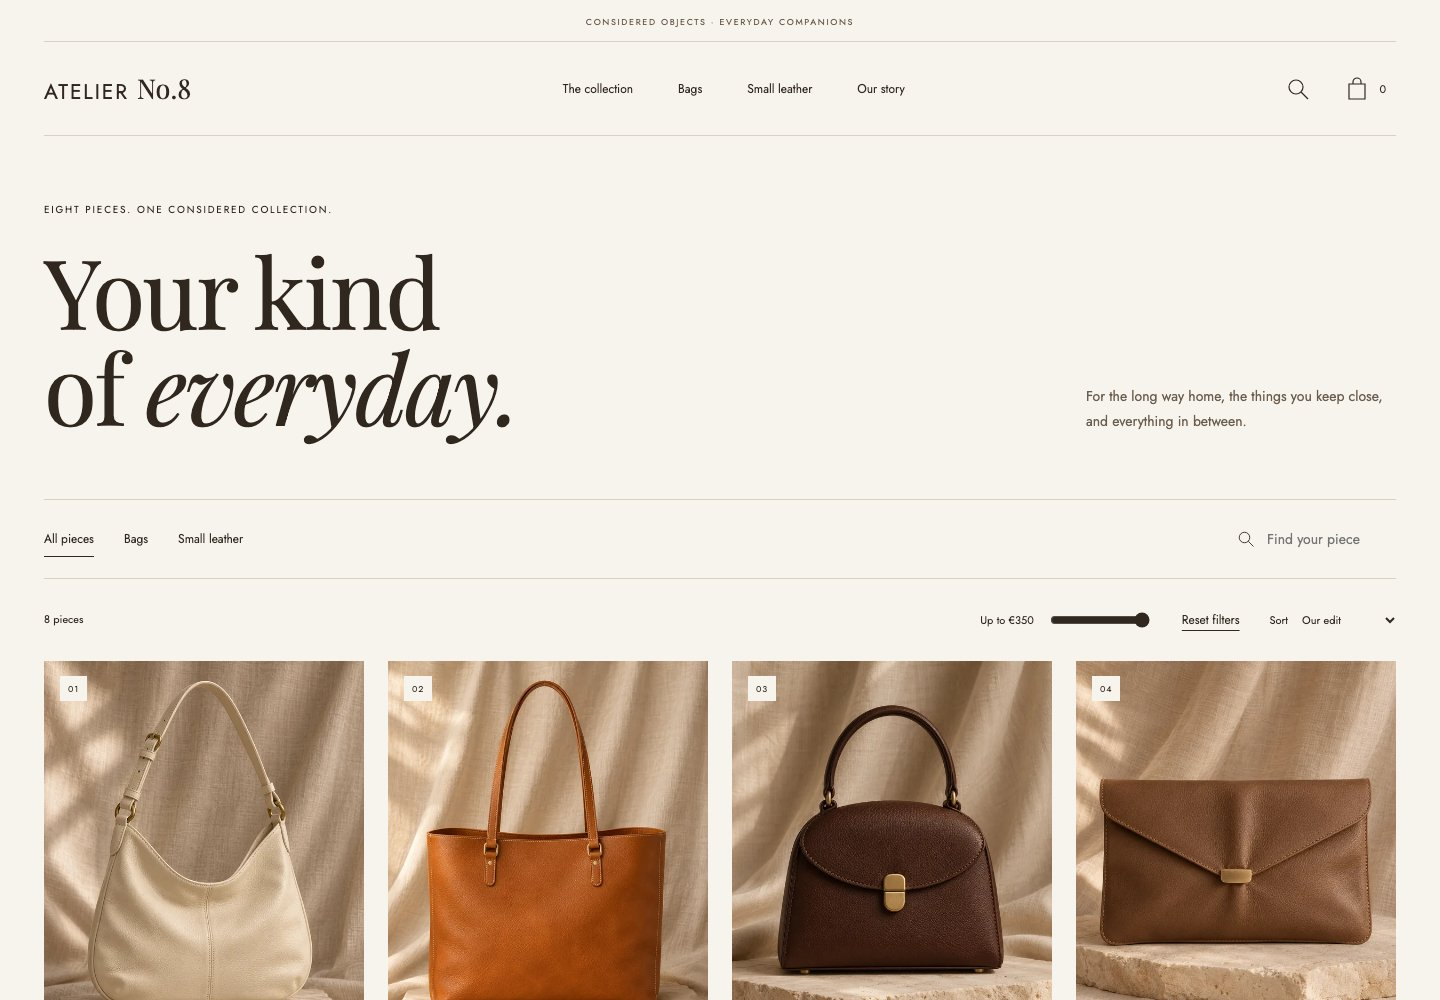
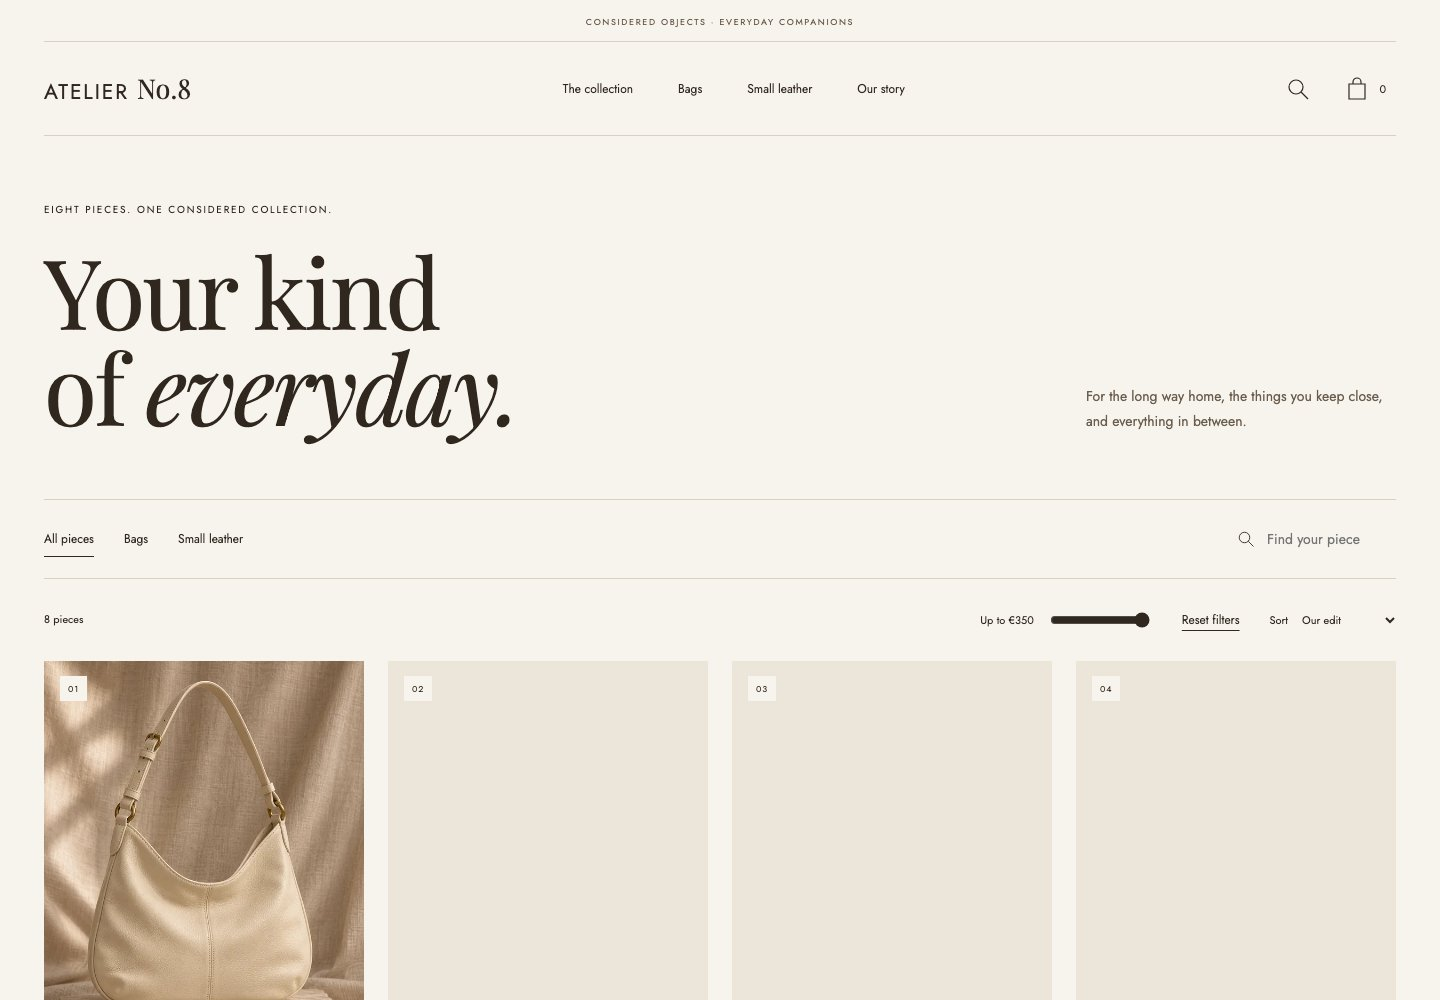
Keep valid contact details inside narrow checkout layouts
A90-character name and long email expanded the390px review to752px and confirmation to769px. Let user-entered values wrap within their cells, and compare overflow against the fixed layout viewport so mobile scaling cannot hide the regression.

Confidence: high
Scope-risk: narrow
Tested: Failing mobile regression before fix; ESLint; formatting; Nuxt typecheck; 12 unit/store tests; 21 browser cases; review and confirmation390px widths; capture/hydration checks

Changed region(s): [[0.25, 0.651, 0.9688, 1.0]]

diff --git a/e2e/shop.spec.ts b/e2e/shop.spec.ts
@@ -129,6 +129,13 @@ test('checkout validates contact and completes an immutable local confirmation w
   await page
     .getByRole('button', { name: 'Use sample details', exact: true })
     .click();
+  await expect(page.getByLabel('Your name', { exact: true })).toHaveValue(
+    'Alex Morgan',
+  );
+  const longName = 'A'.repeat(90);
+  const longEmail = 'a'.repeat(60) + '@example.com';
+  await page.getByLabel('Your name', { exact: true }).fill(longName);
+  await page.getByLabel('Email address', { exact: true }).fill(longEmail);
   await page
     .getByRole('checkbox', { name: /I understand this is a simulated order/ })
     .check();
@@ -138,6 +145,13 @@ test('checkout validates contact and completes an immutable local confirmation w
   await expect(
     page.getByRole('heading', { name: 'One last look.', exact: true }),
   ).toBeFocused();
+  expect(
+    await page.evaluate(
+      () =>
+        document.documentElement.scrollWidth <=
+        document.documentElement.clientWidth,
+    ),
+  ).toBe(true);
   await expect(
     page
       .getByRole('complementary')
@@ -149,12 +163,21 @@ test('checkout validates contact and completes an immutable local confirmation w
   );
   expect(stored).not.toContain('Alex');
   expect(stored).not.toContain('email');
+  expect(stored).not.toContain(longName);
+  expect(stored).not.toContain(longEmail);
   await page
     .getByRole('button', { name: 'Complete demo order', exact: true })
     .click();
   await expect(
     page.getByRole('heading', { level: 1, name: /Imagine it’s/ }),
   ).toBeFocused();
+  expect(
+    await page.evaluate(
+      () =>
+        document.documentElement.scrollWidth <=
+        document.documentElement.clientWidth,
+    ),
+  ).toBe(true);
   await expect(
     page.getByText(/No order was placed, no payment was taken/),
   ).toBeVisible();
@@ -216,7 +239,9 @@ test('routes reflow at desktop/tablet/mobile and pass automated WCAG checks', as
       await expect(page.getByRole('heading', { level: 1 })).toBeVisible();
       expect(
         await page.evaluate(
-          () => document.documentElement.scrollWidth <= window.innerWidth,
+          () =>
+            document.documentElement.scrollWidth <=
+            document.documentElement.clientWidth,
         ),
       ).toBe(true);
     }

diff --git a/app/assets/css/main.css b/app/assets/css/main.css
@@ -1998,3 +1998,9 @@ details p {
     font-size: 40px;
   }
 }
+
+.review-details dd,
+.order-confirmation > p {
+  min-width: 0;
+  overflow-wrap: anywhere;
+}

diff --git a/README.md b/README.md
@@ -67,6 +67,6 @@ GitHub Actions installs with `npm ci`, runs the same quality checks and browser 
 - [Measured build payload](docs/payload-report.json)
 - [Verification and tooling notes](docs/VERIFICATION.md)
 
-The complete generated artifact is about 2.68 MB, including all images and route HTML. All eight client JavaScript chunks total 244,200 bytes, about 92,505 bytes with offline gzip; four WOFF2 subsets total 63,620 bytes. These are artifact measurements, not a Lighthouse score or a live-transfer claim.
+The complete generated artifact is about 2.68 MB, including all images and route HTML. Detailed JavaScript, CSS, WOFF2 and image measurements are kept in the payload report. Gzip values are offline estimates, not a Lighthouse score or live-transfer claim.
 
 Original code is MIT-licensed. Font licenses and generated-artwork provenance remain separate; see [ASSETS.md](ASSETS.md).

diff --git a/docs/VERIFICATION.md b/docs/VERIFICATION.md
@@ -14,6 +14,7 @@ A clean `npm ci` also passed with project `legacy-peer-deps=false`, followed by 
 - Contact data remains outside storage; confirmation remains unchanged after bag clearing.
 - Vue/Nuxt hydration-mismatch warning assertions: zero across browser journeys, including product and checkout reload behavior.
 - Actual screenshot capture: eight cases, no runtime console errors, hydration-mismatch warnings, failed images or horizontal overflow.
+- Long unbroken valid names/emails wrap inside narrow review and confirmation layouts. A failing mobile regression was reproduced before the focused fix. Overflow checks use the fixed layout clientWidth rather than mobile innerWidth expansion.
 - Reflow: 390, 768 and 1440px. Automated WCAG A/AA scan: no findings on the tested main routes.
 
 ## Dependency audit
